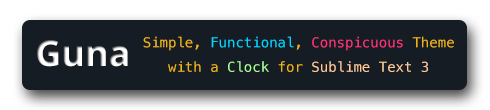
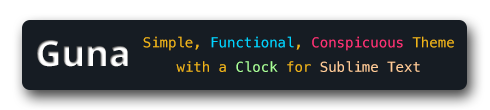
update readme

Changed region(s): [[0.3367, 0.5455, 0.8878, 0.6545]]

diff --git a/.guna/guna-readme.html b/.guna/guna-readme.html
@@ -24,7 +24,7 @@
 <div class="texts">
 
 <p>
-Guna is most innovative theme for sublime text 3. It supports various functions : conspicuous widgets (clock, weather) on sidebar, manually or adaptively tweakable theme colors, controlling status bar label by its own api.
+Guna is most innovative theme for sublime text. It supports various functions : conspicuous widgets (clock, weather) on sidebar, manually or adaptively tweakable theme colors, controlling status bar label by its own api.
 </p>
 
 <div class='head3'>Theme Activation</div>

diff --git a/README.md b/README.md
@@ -3,7 +3,7 @@
 [![Package Control](https://packagecontrol.herokuapp.com/downloads/Guna.svg?style=round-square)](https://packagecontrol.io/packages/Guna)
 [![PayPal](https://img.shields.io/badge/paypal-donate-blue.svg)][PM]
 
-Guna is the most innovative theme for sublime text 3. It supports various functions : conspicuous widgets (clock, weather) on the sidebar, manually or adaptively tweakable theme colors, controlling status bar label by its own API.
+Guna is the most innovative theme for sublime text. It supports various functions : conspicuous widgets (clock, weather) on the sidebar, manually or adaptively tweakable theme colors, controlling status bar label by its own API.
 
 ### Theme Activation
 
